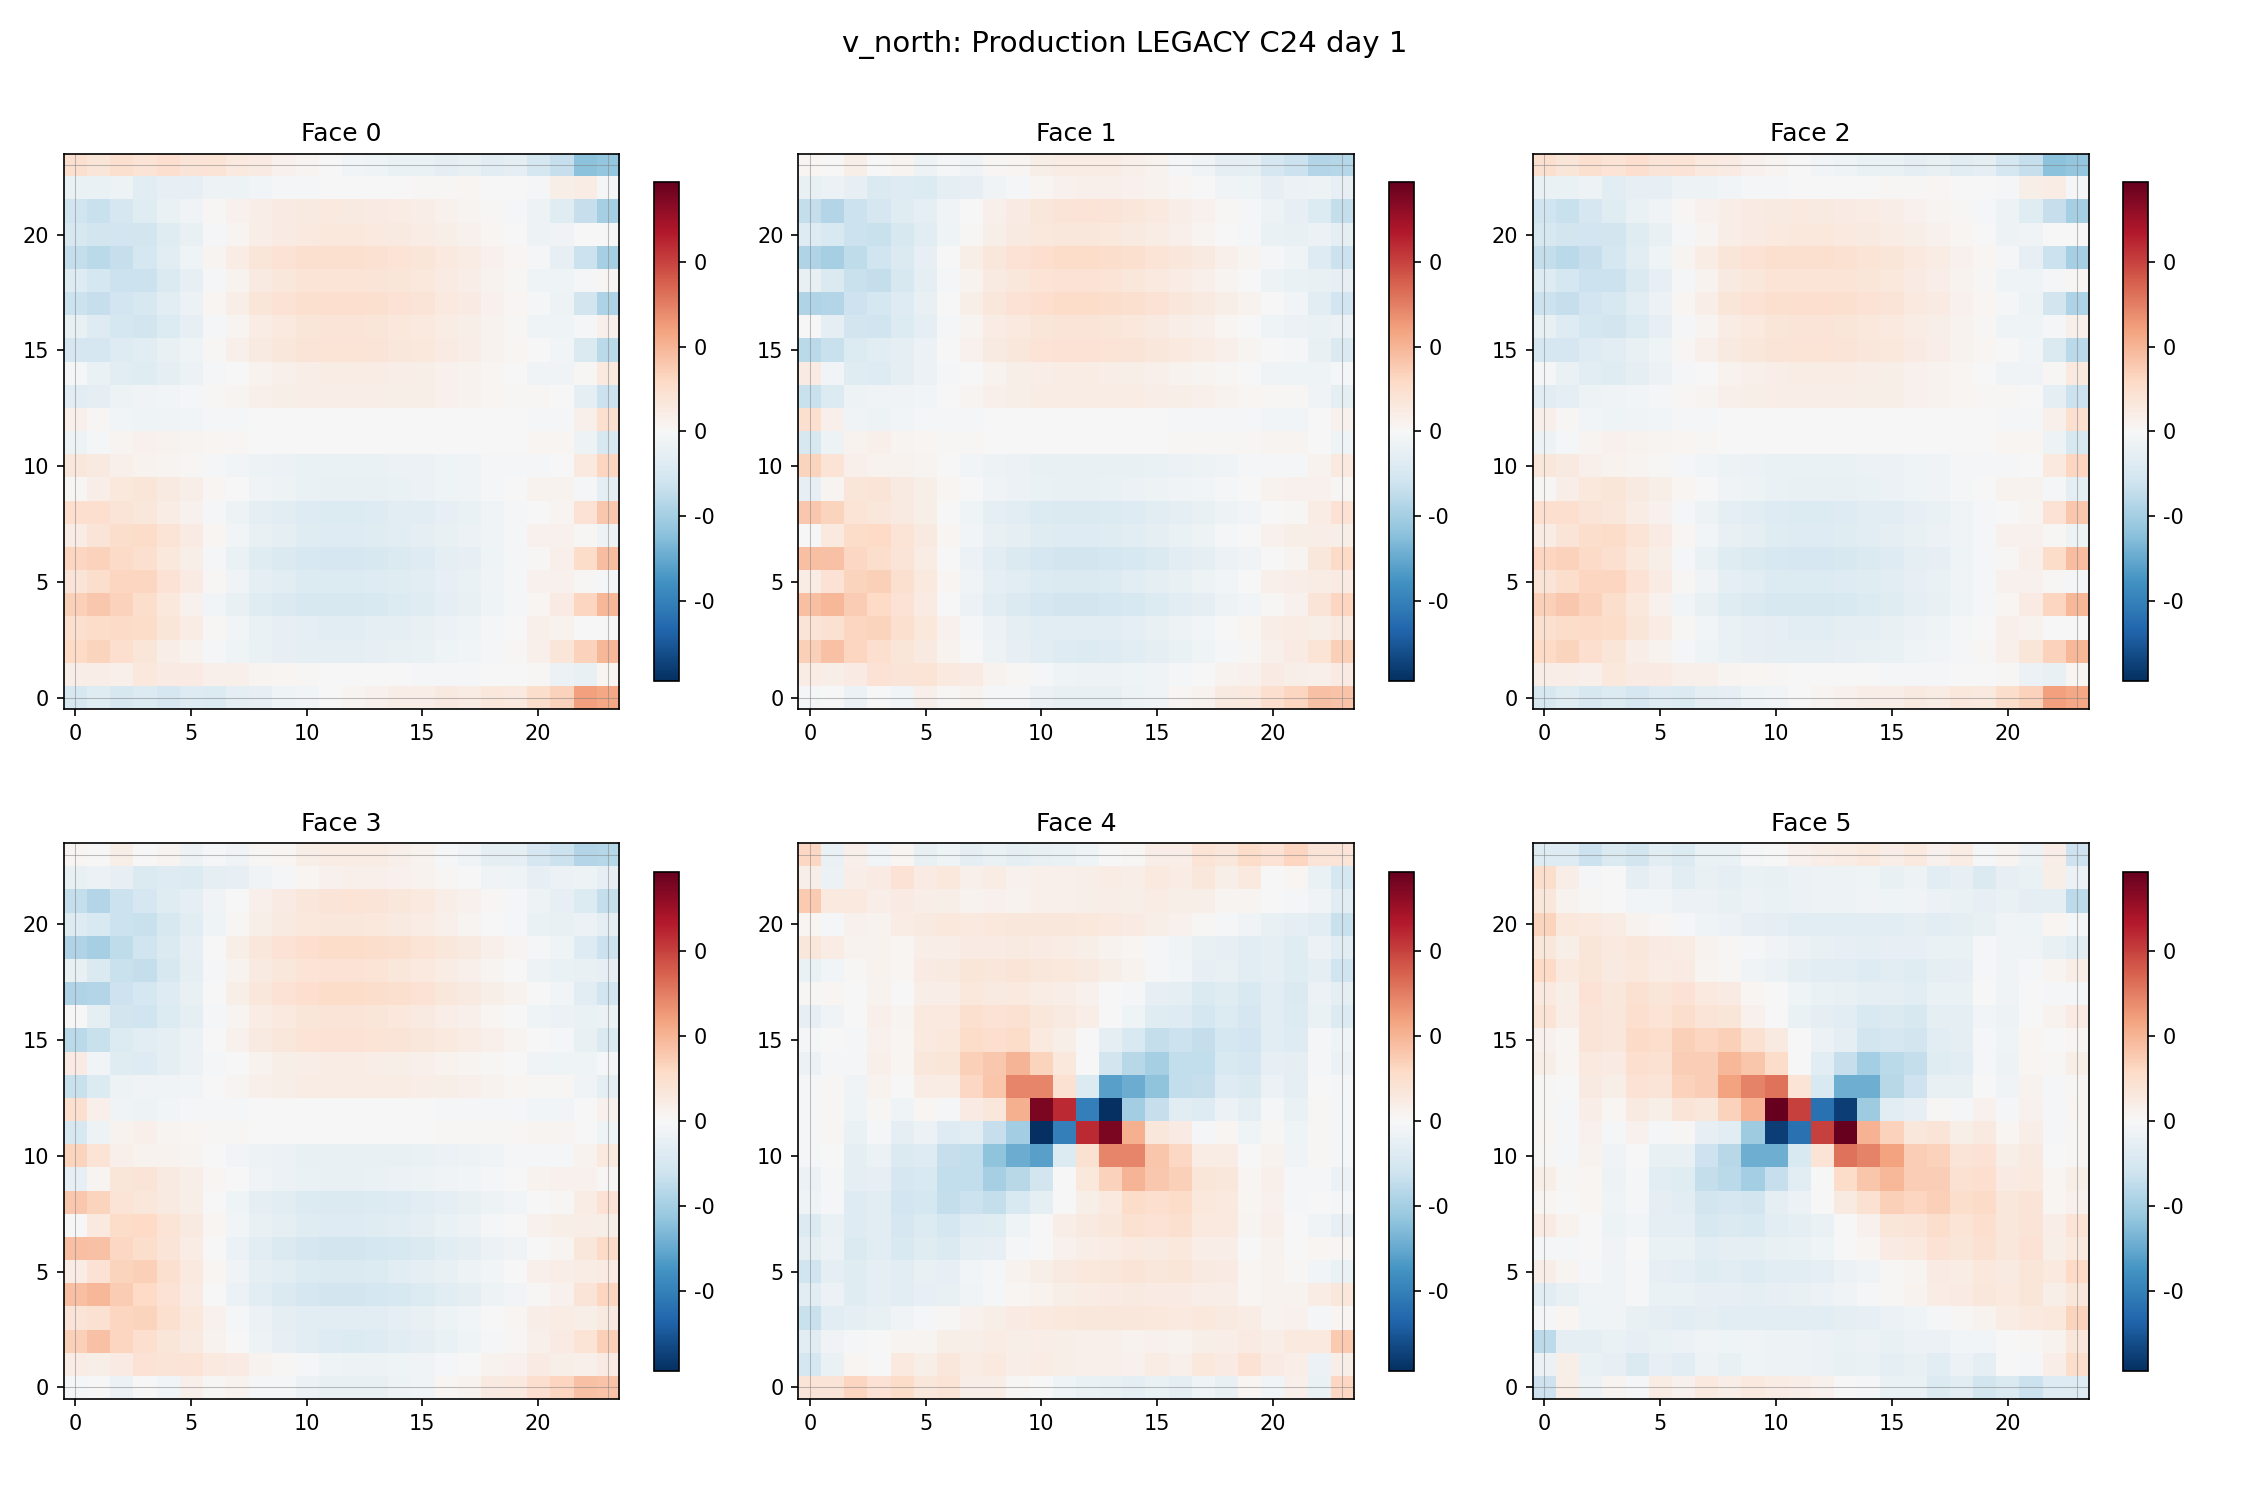
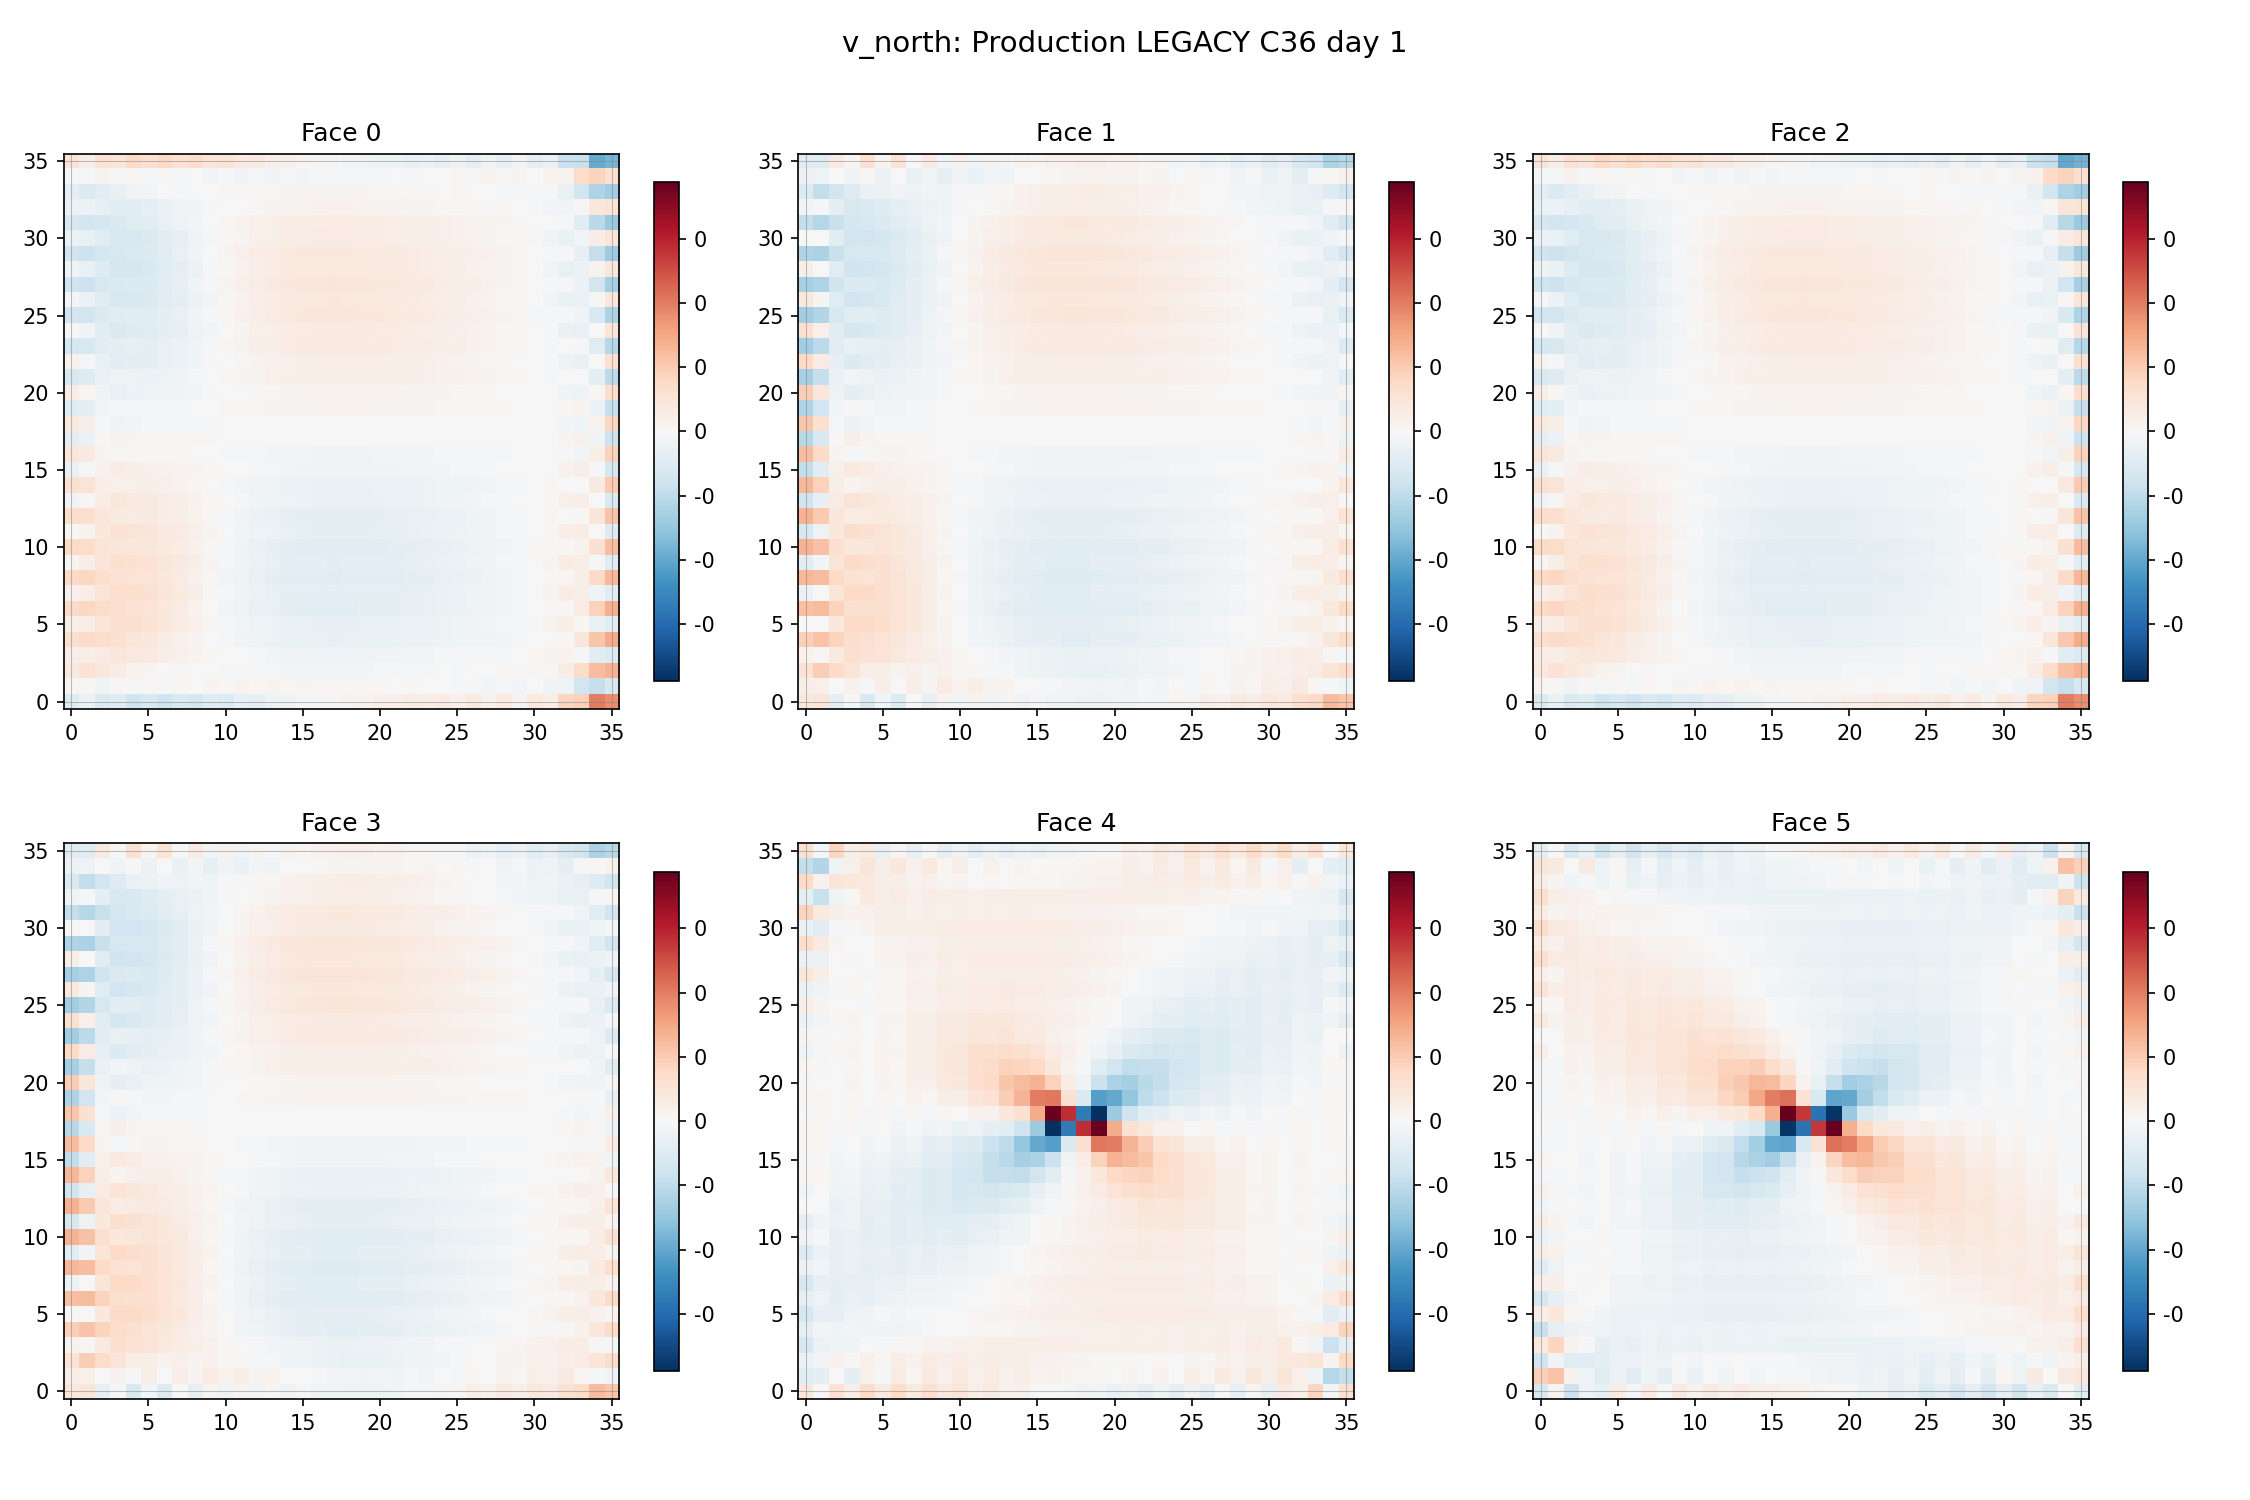
Ralph iter 813: regenerate W2 visuals at C36 matching production sentinel resolution
Per iter-812's iter-813+ candidate, bumped diag_w2_visual.py from
C24 to C36 to match the production W2 sentinel (test_w2_alpha0_
c36_1day_iter761_matrix_config uses n=36).

Result at C36 W2 1-day:

  path           h_err max    v_north max
  LEGACY         4.59         0.39 m/s
  DUOGRID RK3    24.59        1.30 m/s

At C36, LEGACY v_north max is 0.39 m/s — approaching iter-761's
canonical 0.159 m/s (the regrid-to-lat-lon number v_ll_Linf is
smaller than the raw cell-centre v_cc peak).  Visible artifacts:
- equatorial faces: mild cube-vertex edge striping
- polar faces: clear X-pattern at geographic pole (coordinate
  singularity, not cube-vertex)

DUOGRID at C36 (post iter-808 fix): still 3.3x worse v_north
than LEGACY due to the remaining du/dv Lagrange corner-fill
contamination (iter-803 identified).  Cube-corner blobs visible
at all 4 corners of each face.  Pole X-pattern is slightly
smaller than LEGACY (DUOGRID's sync helps near-pole).

Visual inspection confirms:
- LEGACY is the production choice (cleaner v_north).
- DUOGRID is usable (not catastrophic) but not yet optimal.
- The 0.159 m/s LEGACY mode-A is visible but small.

diff --git a/scripts/diag_w2_visual.py b/scripts/diag_w2_visual.py
@@ -24,10 +24,12 @@ from legoesm import constants
 OUT = os.path.join(os.path.dirname(__file__), '..', 'diagnostics', 'fv3_visual')
 os.makedirs(OUT, exist_ok=True)
 
-N = 24
+N = 36
 # Iter-797: match the production matrix dt (run_atmosphere_test_matrix.py
 # line 1177) which uses dt=300s for W2/W5.  dt=600s (prior value) with
 # the iter-761 canonical config was numerically unstable at C24.
+# Iter-813: bumped N to 36 to match the production W2 sentinel resolution
+# (test_w2_alpha0_c36_1day_iter761_matrix_config uses n=36).
 DT = 300.0
 G = constants.g
 NSTEPS = int(86400 / DT)  # 1 day
